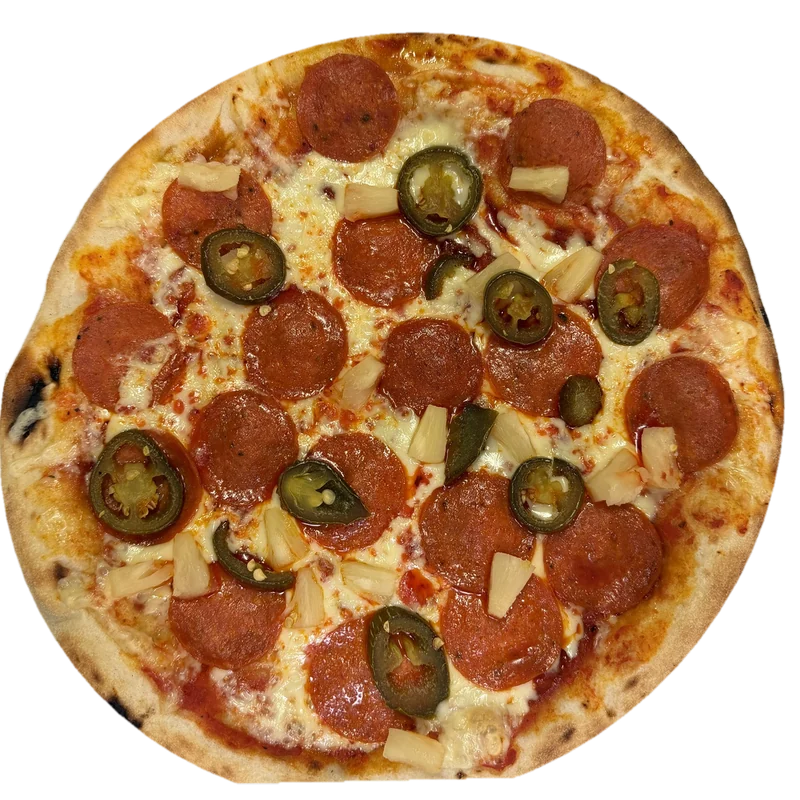
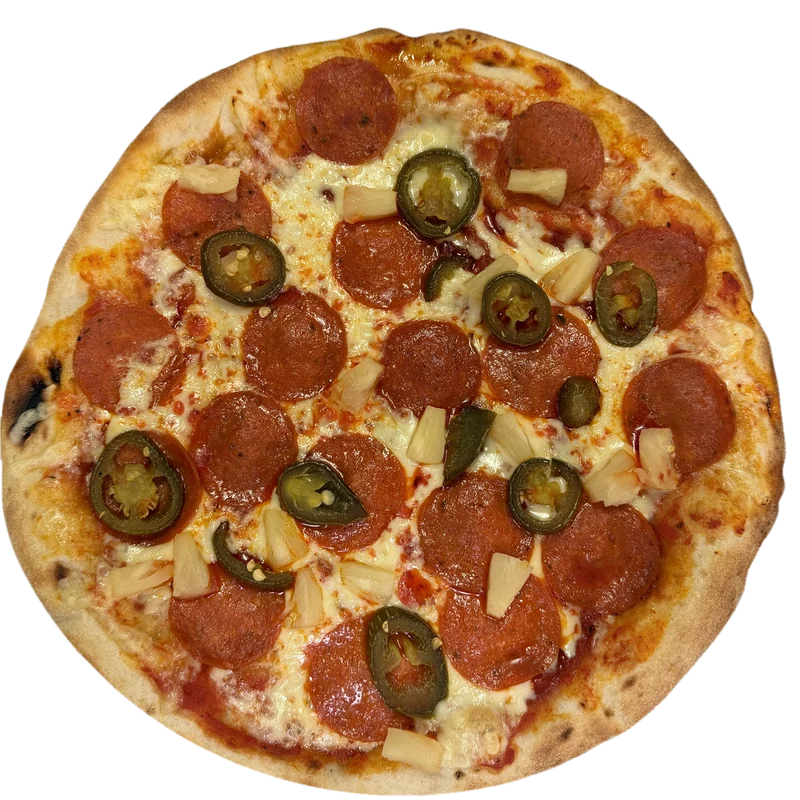
Mexicanan kuvan rajaus korjattu
Claude-Session: https://claude.ai/code/session_019QJ8uAZrjsHY5GBSvSU4sp

Changed region(s): [[0.0, 0.0312, 1.0, 1.0], [0.25, 0.5938, 0.3438, 0.6875], [0.0312, 0.7188, 0.0625, 0.7812]]

diff --git a/index.html b/index.html
@@ -1,9 +1,9 @@
 <!DOCTYPE html>
-<html lang="fi"><head><meta charset="utf-8"><meta name="build" content="1793781679"><meta name="viewport" content="width=device-width, initial-scale=1, viewport-fit=cover">
+<html lang="fi"><head><meta charset="utf-8"><meta name="build" content="1793781785"><meta name="viewport" content="width=device-width, initial-scale=1, viewport-fit=cover">
 <title>Malakai Ravintola Lempäälä | Pizzabuffet, kebab, burgerit ja siivet</title><meta name="description" content="Malakai Ravintola, Tampereentie 414 Lempäälä. Pizzabuffet 13,70 € / 14,90 €, päivän pizza 9,90 €, kebabit, burgerit, Sticky Fingers ja Hot Wings. Varaa pöytä: 045 353 7000.">
 <meta property="og:title" content="Malakai Ravintola Lempäälä | Pizzabuffet, kebab, burgerit ja siivet"><meta property="og:description" content="Malakai Ravintola, Tampereentie 414 Lempäälä. Pizzabuffet 13,70 € / 14,90 €, päivän pizza 9,90 €, kebabit, burgerit, Sticky Fingers ja Hot Wings. Varaa pöytä: 045 353 7000."><meta property="og:image" content="media/kuvat/hero-levea.jpg"><meta property="og:locale" content="fi_FI">
 <link href="https://fonts.googleapis.com/css2?family=Anton&family=Inter:wght@400;500;700&family=Playfair+Display:wght@500;600&display=swap" rel="stylesheet">
-<link rel="stylesheet" href="styles.css?v=1793781679"><link rel="stylesheet" href="home.css?v=1793781679">
+<link rel="stylesheet" href="styles.css?v=1793781785"><link rel="stylesheet" href="home.css?v=1793781785">
 <script type="application/ld+json">{"@context":"https://schema.org","@type":"Restaurant","name":"Malakai Ravintola","address":{"@type":"PostalAddress","streetAddress":"Tampereentie 414","postalCode":"33880","addressLocality":"Lempäälä","addressCountry":"FI"},"telephone":"+358453537000","email":"malakairavintola@gmail.com","url":"https://malakairavintola.fi","servesCuisine":["Pizza","Kebab","Burgerit"],"openingHours":["Mo-Th 10:30-20:00","Fr 10:30-21:00","Sa 11:00-21:00","Su 12:00-20:00"]}</script>
 </head>
 <body class="home">
@@ -219,5 +219,5 @@
 <div class="fcopy">© 2025 Malakai Ravintola · <a href="https://www.oivahymy.fi/api/raportti/227129" target="_blank" rel="noopener">Oiva-raportti (Oivallinen)</a> · <a href="tietosuoja.html">Tietosuojaseloste</a> · <a href="kayttoehdot.html">Käyttö- ja varausehdot</a></div>
 </div></footer>
 <div class="bar"><a class="btn" href="tel:+358453537000">Soita</a><a class="btn r" href="https://order.site/malakai-ravintola" target="_blank" rel="noopener">Tilaa</a><a class="btn y" href="#varaa">Varaa pöytä</a></div>
-<script src="data.js?v=1793781679"></script><script src="config.js?v=1793781679"></script><script src="site.js?v=1793781679"></script>
+<script src="data.js?v=1793781785"></script><script src="config.js?v=1793781785"></script><script src="site.js?v=1793781785"></script>
 </body></html>

diff --git a/lounas.html b/lounas.html
@@ -1,9 +1,9 @@
 <!DOCTYPE html>
-<html lang="fi"><head><meta charset="utf-8"><meta name="build" content="1793781679"><meta name="viewport" content="width=device-width, initial-scale=1, viewport-fit=cover">
+<html lang="fi"><head><meta charset="utf-8"><meta name="build" content="1793781785"><meta name="viewport" content="width=device-width, initial-scale=1, viewport-fit=cover">
 <title>Lounas Sääksjärvi | Malakai Ravintola Lempäälä</title><meta name="description" content="Pizzabuffet Lempäälässä: arkisin klo 10.30–15 13,70 €, viikonloppuisin klo 13–18 14,90 €. Salaattibuffet 9,90 € / 10,90 €. Lapsille omat hinnat.">
 <meta property="og:title" content="Pizzabuffet Lempäälä | Malakai Ravintola"><meta property="og:description" content="Pizzabuffet Lempäälässä: arkisin klo 10.30–15 13,70 €, viikonloppuisin klo 13–18 14,90 €. Salaattibuffet 9,90 € / 10,90 €. Lapsille omat hinnat."><meta property="og:image" content="media/hero.jpg"><meta property="og:locale" content="fi_FI">
 <link href="https://fonts.googleapis.com/css2?family=Anton&family=Inter:wght@400;500;700&family=Playfair+Display:wght@500;600&display=swap" rel="stylesheet">
-<link rel="stylesheet" href="styles.css?v=1793781679"><link rel="stylesheet" href="home.css?v=1793781679">
+<link rel="stylesheet" href="styles.css?v=1793781785"><link rel="stylesheet" href="home.css?v=1793781785">
 <script type="application/ld+json">{"@context":"https://schema.org","@type":"Restaurant","name":"Malakai Ravintola","address":{"@type":"PostalAddress","streetAddress":"Tampereentie 414","postalCode":"33880","addressLocality":"Lempäälä","addressCountry":"FI"},"telephone":"+358453537000","email":"malakairavintola@gmail.com","url":"https://malakairavintola.fi","servesCuisine":["Pizza","Kebab","Burgerit"],"openingHours":["Mo-Th 10:30-20:00","Fr 10:30-21:00","Sa 11:00-21:00","Su 12:00-20:00"]}</script>
 </head><body class="home">
 <header class="top" id="topbar">
@@ -73,5 +73,5 @@
 <div class="fcopy">© 2025 Malakai Ravintola · <a href="https://www.oivahymy.fi/api/raportti/227129" target="_blank" rel="noopener">Oiva-raportti (Oivallinen)</a> · <a href="tietosuoja.html">Tietosuojaseloste</a> · <a href="kayttoehdot.html">Käyttö- ja varausehdot</a></div>
 </div></footer>
 <div class="bar"><a class="btn" href="tel:+358453537000">Soita</a><a class="btn r" href="https://order.site/malakai-ravintola" target="_blank" rel="noopener">Tilaa</a><a class="btn y" href="index.html#varaa">Varaa pöytä</a></div>
-<script src="data.js?v=1793781679"></script><script src="config.js?v=1793781679"></script><script src="site.js?v=1793781679"></script>
+<script src="data.js?v=1793781785"></script><script src="config.js?v=1793781785"></script><script src="site.js?v=1793781785"></script>
 </body></html>

diff --git a/pikkujoulut.html b/pikkujoulut.html
@@ -1,9 +1,9 @@
 <!DOCTYPE html>
-<html lang="fi"><head><meta charset="utf-8"><meta name="build" content="1793781679"><meta name="viewport" content="width=device-width, initial-scale=1, viewport-fit=cover">
+<html lang="fi"><head><meta charset="utf-8"><meta name="build" content="1793781785"><meta name="viewport" content="width=device-width, initial-scale=1, viewport-fit=cover">
 <title>Pikkujoulut 2026 Lempäälä | Malakai Ravintola</title><meta name="description" content="Pikkujoulut 2026 Malakai Ravintolassa Sääksjärvellä: runsas buffet työporukalle, kavereille ja suvulle. Pyydä tarjous: 045 353 7000.">
 <meta property="og:title" content="Pikkujoulut 2026 | Malakai Ravintola"><meta property="og:description" content="Pikkujoulut 2026 Malakai Ravintolassa Sääksjärvellä: runsas buffet työporukalle, kavereille ja suvulle. Pyydä tarjous: 045 353 7000."><meta property="og:image" content="media/kuvat/buffet-lautanen.jpg"><meta property="og:locale" content="fi_FI">
 <link href="https://fonts.googleapis.com/css2?family=Anton&family=Inter:wght@400;500;700&family=Playfair+Display:wght@500;600&display=swap" rel="stylesheet">
-<link rel="stylesheet" href="styles.css?v=1793781679"><link rel="stylesheet" href="home.css?v=1793781679">
+<link rel="stylesheet" href="styles.css?v=1793781785"><link rel="stylesheet" href="home.css?v=1793781785">
 <script type="application/ld+json">{"@context":"https://schema.org","@type":"Restaurant","name":"Malakai Ravintola","address":{"@type":"PostalAddress","streetAddress":"Tampereentie 414","postalCode":"33880","addressLocality":"Lempäälä","addressCountry":"FI"},"telephone":"+358453537000","email":"malakairavintola@gmail.com","url":"https://malakairavintola.fi","servesCuisine":["Pizza","Kebab","Burgerit"],"openingHours":["Mo-Th 10:30-20:00","Fr 10:30-21:00","Sa 11:00-21:00","Su 12:00-20:00"]}</script>
 </head><body class="home">
 <header class="top" id="topbar">
@@ -66,5 +66,5 @@
 <div class="fcopy">© 2025 Malakai Ravintola · <a href="https://www.oivahymy.fi/api/raportti/227129" target="_blank" rel="noopener">Oiva-raportti (Oivallinen)</a> · <a href="tietosuoja.html">Tietosuojaseloste</a> · <a href="kayttoehdot.html">Käyttö- ja varausehdot</a></div>
 </div></footer>
 <div class="bar"><a class="btn" href="tel:+358453537000">Soita</a><a class="btn r" href="https://order.site/malakai-ravintola" target="_blank" rel="noopener">Tilaa</a><a class="btn y" href="index.html#varaa">Varaa pöytä</a></div>
-<script src="data.js?v=1793781679"></script><script src="config.js?v=1793781679"></script><script src="site.js?v=1793781679"></script>
+<script src="data.js?v=1793781785"></script><script src="config.js?v=1793781785"></script><script src="site.js?v=1793781785"></script>
 </body></html>

diff --git a/ruokalista.html b/ruokalista.html
@@ -1,9 +1,9 @@
 <!DOCTYPE html>
-<html lang="fi"><head><meta charset="utf-8"><meta name="build" content="1793781679"><meta name="viewport" content="width=device-width, initial-scale=1, viewport-fit=cover">
+<html lang="fi"><head><meta charset="utf-8"><meta name="build" content="1793781785"><meta name="viewport" content="width=device-width, initial-scale=1, viewport-fit=cover">
 <title>Ruokalista | Malakai Ravintola Lempäälä</title><meta name="description" content="Malakai Ravintolan ruokalista: pizzat, kebabit, kana, Sticky Fingers, Hot Wings, burgerit, lisukkeet, dipit ja juomat hintoineen.">
 <meta property="og:title" content="Ruokalista | Malakai Ravintola Lempäälä"><meta property="og:description" content="Malakai Ravintolan ruokalista: pizzat, kebabit, kana, Sticky Fingers, Hot Wings, burgerit, lisukkeet, dipit ja juomat hintoineen."><meta property="og:image" content="media/hero.jpg"><meta property="og:locale" content="fi_FI">
 <link href="https://fonts.googleapis.com/css2?family=Anton&family=Inter:wght@400;500;700&family=Playfair+Display:wght@500;600&display=swap" rel="stylesheet">
-<link rel="stylesheet" href="styles.css?v=1793781679"><link rel="stylesheet" href="home.css?v=1793781679">
+<link rel="stylesheet" href="styles.css?v=1793781785"><link rel="stylesheet" href="home.css?v=1793781785">
 <script type="application/ld+json">{"@context":"https://schema.org","@type":"Restaurant","name":"Malakai Ravintola","address":{"@type":"PostalAddress","streetAddress":"Tampereentie 414","postalCode":"33880","addressLocality":"Lempäälä","addressCountry":"FI"},"telephone":"+358453537000","email":"malakairavintola@gmail.com","url":"https://malakairavintola.fi","servesCuisine":["Pizza","Kebab","Burgerit"],"openingHours":["Mo-Th 10:30-20:00","Fr 10:30-21:00","Sa 11:00-21:00","Su 12:00-20:00"]}</script>
 </head><body class="home menu-page">
 <header class="top" id="topbar">
@@ -23,5 +23,5 @@
 <div class="fcopy">© 2025 Malakai Ravintola · <a href="https://www.oivahymy.fi/api/raportti/227129" target="_blank" rel="noopener">Oiva-raportti (Oivallinen)</a> · <a href="tietosuoja.html">Tietosuojaseloste</a> · <a href="kayttoehdot.html">Käyttö- ja varausehdot</a></div>
 </div></footer>
 <div class="bar"><a class="btn" href="tel:+358453537000">Soita</a><a class="btn r" href="https://order.site/malakai-ravintola" target="_blank" rel="noopener">Tilaa</a><a class="btn y" href="index.html#varaa">Varaa pöytä</a></div>
-<script src="data.js?v=1793781679"></script><script src="config.js?v=1793781679"></script><script src="site.js?v=1793781679"></script>
+<script src="data.js?v=1793781785"></script><script src="config.js?v=1793781785"></script><script src="site.js?v=1793781785"></script>
 </body></html>

diff --git a/pizza-lempaala.html b/pizza-lempaala.html
@@ -1,9 +1,9 @@
 <!DOCTYPE html>
-<html lang="fi"><head><meta charset="utf-8"><meta name="build" content="1793781679"><meta name="viewport" content="width=device-width, initial-scale=1, viewport-fit=cover">
+<html lang="fi"><head><meta charset="utf-8"><meta name="build" content="1793781785"><meta name="viewport" content="width=device-width, initial-scale=1, viewport-fit=cover">
 <title>Pizza Lempäälä | Malakai Ravintola</title><meta name="description" content="Pizza Lempäälässä: Malakai Ravintolan 22 pizzaa, oma valinta ja päivän pizza 9,90 €. Pizzabuffet joka päivä.">
 <meta property="og:title" content="Pizza Lempäälä | Malakai Ravintola"><meta property="og:description" content="Pizza Lempäälässä: Malakai Ravintolan 22 pizzaa, oma valinta ja päivän pizza 9,90 €. Pizzabuffet joka päivä."><meta property="og:image" content="media/hero.jpg"><meta property="og:locale" content="fi_FI">
 <link href="https://fonts.googleapis.com/css2?family=Anton&family=Inter:wght@400;500;700&family=Playfair+Display:wght@500;600&display=swap" rel="stylesheet">
-<link rel="stylesheet" href="styles.css?v=1793781679"><link rel="stylesheet" href="home.css?v=1793781679">
+<link rel="stylesheet" href="styles.css?v=1793781785"><link rel="stylesheet" href="home.css?v=1793781785">
 <script type="application/ld+json">{"@context":"https://schema.org","@type":"Restaurant","name":"Malakai Ravintola","address":{"@type":"PostalAddress","streetAddress":"Tampereentie 414","postalCode":"33880","addressLocality":"Lempäälä","addressCountry":"FI"},"telephone":"+358453537000","email":"malakairavintola@gmail.com","url":"https://malakairavintola.fi","servesCuisine":["Pizza","Kebab","Burgerit"],"openingHours":["Mo-Th 10:30-20:00","Fr 10:30-21:00","Sa 11:00-21:00","Su 12:00-20:00"]}</script>
 </head><body class="home menu-page">
 <header class="top" id="topbar">
@@ -23,5 +23,5 @@
 <div class="fcopy">© 2025 Malakai Ravintola · <a href="https://www.oivahymy.fi/api/raportti/227129" target="_blank" rel="noopener">Oiva-raportti (Oivallinen)</a> · <a href="tietosuoja.html">Tietosuojaseloste</a> · <a href="kayttoehdot.html">Käyttö- ja varausehdot</a></div>
 </div></footer>
 <div class="bar"><a class="btn" href="tel:+358453537000">Soita</a><a class="btn r" href="https://order.site/malakai-ravintola" target="_blank" rel="noopener">Tilaa</a><a class="btn y" href="index.html#varaa">Varaa pöytä</a></div>
-<script src="data.js?v=1793781679"></script><script src="config.js?v=1793781679"></script><script src="site.js?v=1793781679"></script>
+<script src="data.js?v=1793781785"></script><script src="config.js?v=1793781785"></script><script src="site.js?v=1793781785"></script>
 </body></html>

diff --git a/kebab-lempaala.html b/kebab-lempaala.html
@@ -1,9 +1,9 @@
 <!DOCTYPE html>
-<html lang="fi"><head><meta charset="utf-8"><meta name="build" content="1793781679"><meta name="viewport" content="width=device-width, initial-scale=1, viewport-fit=cover">
+<html lang="fi"><head><meta charset="utf-8"><meta name="build" content="1793781785"><meta name="viewport" content="width=device-width, initial-scale=1, viewport-fit=cover">
 <title>Kebab Lempäälä | Malakai Ravintola</title><meta name="description" content="Kebab Lempäälässä: Malakai Ravintolan kebab- ja kanaannokset ranskalaisilla, riisillä, rullana ja pitassa.">
 <meta property="og:title" content="Kebab Lempäälä | Malakai Ravintola"><meta property="og:description" content="Kebab Lempäälässä: Malakai Ravintolan kebab- ja kanaannokset ranskalaisilla, riisillä, rullana ja pitassa."><meta property="og:image" content="media/hero.jpg"><meta property="og:locale" content="fi_FI">
 <link href="https://fonts.googleapis.com/css2?family=Anton&family=Inter:wght@400;500;700&family=Playfair+Display:wght@500;600&display=swap" rel="stylesheet">
-<link rel="stylesheet" href="styles.css?v=1793781679"><link rel="stylesheet" href="home.css?v=1793781679">
+<link rel="stylesheet" href="styles.css?v=1793781785"><link rel="stylesheet" href="home.css?v=1793781785">
 <script type="application/ld+json">{"@context":"https://schema.org","@type":"Restaurant","name":"Malakai Ravintola","address":{"@type":"PostalAddress","streetAddress":"Tampereentie 414","postalCode":"33880","addressLocality":"Lempäälä","addressCountry":"FI"},"telephone":"+358453537000","email":"malakairavintola@gmail.com","url":"https://malakairavintola.fi","servesCuisine":["Pizza","Kebab","Burgerit"],"openingHours":["Mo-Th 10:30-20:00","Fr 10:30-21:00","Sa 11:00-21:00","Su 12:00-20:00"]}</script>
 </head><body class="home menu-page">
 <header class="top" id="topbar">
@@ -23,5 +23,5 @@
 <div class="fcopy">© 2025 Malakai Ravintola · <a href="https://www.oivahymy.fi/api/raportti/227129" target="_blank" rel="noopener">Oiva-raportti (Oivallinen)</a> · <a href="tietosuoja.html">Tietosuojaseloste</a> · <a href="kayttoehdot.html">Käyttö- ja varausehdot</a></div>
 </div></footer>
 <div class="bar"><a class="btn" href="tel:+358453537000">Soita</a><a class="btn r" href="https://order.site/malakai-ravintola" target="_blank" rel="noopener">Tilaa</a><a class="btn y" href="index.html#varaa">Varaa pöytä</a></div>
-<script src="data.js?v=1793781679"></script><script src="config.js?v=1793781679"></script><script src="site.js?v=1793781679"></script>
+<script src="data.js?v=1793781785"></script><script src="config.js?v=1793781785"></script><script src="site.js?v=1793781785"></script>
 </body></html>

diff --git a/kayttoehdot.html b/kayttoehdot.html
@@ -1,9 +1,9 @@
 <!DOCTYPE html>
-<html lang="fi"><head><meta charset="utf-8"><meta name="build" content="1793781679"><meta name="viewport" content="width=device-width, initial-scale=1, viewport-fit=cover">
+<html lang="fi"><head><meta charset="utf-8"><meta name="build" content="1793781785"><meta name="viewport" content="width=device-width, initial-scale=1, viewport-fit=cover">
 <title>Käyttö- ja varausehdot | Malakai Ravintola</title><meta name="description" content="Malakai Ravintolan käyttö- ja varausehdot: pöytävaraukset, lahjakortit ja sivuston käyttö."><meta name="robots" content="noindex">
 <meta property="og:title" content="Käyttö- ja varausehdot | Malakai Ravintola"><meta property="og:description" content="Pöytävaraukset ja lahjakortit: Malakai Ravintolan ehdot."><meta property="og:image" content="media/kuvat/buffet-lautanen.jpg"><meta property="og:locale" content="fi_FI">
 <link href="https://fonts.googleapis.com/css2?family=Anton&family=Inter:wght@400;500;700&family=Playfair+Display:wght@500;600&display=swap" rel="stylesheet">
-<link rel="stylesheet" href="styles.css?v=1793781679"><link rel="stylesheet" href="home.css?v=1793781679">
+<link rel="stylesheet" href="styles.css?v=1793781785"><link rel="stylesheet" href="home.css?v=1793781785">
 <script type="application/ld+json">{"@context":"https://schema.org","@type":"Restaurant","name":"Malakai Ravintola","address":{"@type":"PostalAddress","streetAddress":"Tampereentie 414","postalCode":"33880","addressLocality":"Lempäälä","addressCountry":"FI"},"telephone":"+358453537000","email":"malakairavintola@gmail.com","url":"https://malakairavintola.fi","servesCuisine":["Pizza","Kebab","Burgerit"],"openingHours":["Mo-Th 10:30-20:00","Fr 10:30-21:00","Sa 11:00-21:00","Su 12:00-20:00"]}</script>
 </head><body class="home">
 <header class="top" id="topbar">
@@ -69,5 +69,5 @@
 <div class="fcopy">© 2025 Malakai Ravintola · <a href="https://www.oivahymy.fi/api/raportti/227129" target="_blank" rel="noopener">Oiva-raportti (Oivallinen)</a> · <a href="tietosuoja.html">Tietosuojaseloste</a> · <a href="kayttoehdot.html">Käyttö- ja varausehdot</a></div>
 </div></footer>
 <div class="bar"><a class="btn" href="tel:+358453537000">Soita</a><a class="btn r" href="https://order.site/malakai-ravintola" target="_blank" rel="noopener">Tilaa</a><a class="btn y" href="index.html#varaa">Varaa pöytä</a></div>
-<script src="data.js?v=1793781679"></script><script src="config.js?v=1793781679"></script><script src="site.js?v=1793781679"></script>
+<script src="data.js?v=1793781785"></script><script src="config.js?v=1793781785"></script><script src="site.js?v=1793781785"></script>
 </body></html>

diff --git a/tietosuoja.html b/tietosuoja.html
@@ -1,9 +1,9 @@
 <!DOCTYPE html>
-<html lang="fi"><head><meta charset="utf-8"><meta name="build" content="1793781679"><meta name="viewport" content="width=device-width, initial-scale=1, viewport-fit=cover">
+<html lang="fi"><head><meta charset="utf-8"><meta name="build" content="1793781785"><meta name="viewport" content="width=device-width, initial-scale=1, viewport-fit=cover">
 <title>Tietosuojaseloste | Malakai Ravintola</title><meta name="description" content="Malakai Ravintolan tietosuojaseloste: pöytävarausten ja uutiskirjeen henkilötietojen käsittely."><meta name="robots" content="noindex">
 <meta property="og:title" content="Tietosuojaseloste | Malakai Ravintola"><meta property="og:image" content="media/kuvat/buffet-lautanen.jpg"><meta property="og:locale" content="fi_FI">
 <link href="https://fonts.googleapis.com/css2?family=Anton&family=Inter:wght@400;500;700&family=Playfair+Display:wght@500;600&display=swap" rel="stylesheet">
-<link rel="stylesheet" href="styles.css?v=1793781679"><link rel="stylesheet" href="home.css?v=1793781679">
+<link rel="stylesheet" href="styles.css?v=1793781785"><link rel="stylesheet" href="home.css?v=1793781785">
 <script type="application/ld+json">{"@context":"https://schema.org","@type":"Restaurant","name":"Malakai Ravintola","address":{"@type":"PostalAddress","streetAddress":"Tampereentie 414","postalCode":"33880","addressLocality":"Lempäälä","addressCountry":"FI"},"telephone":"+358453537000","email":"malakairavintola@gmail.com","url":"https://malakairavintola.fi","servesCuisine":["Pizza","Kebab","Burgerit"],"openingHours":["Mo-Th 10:30-20:00","Fr 10:30-21:00","Sa 11:00-21:00","Su 12:00-20:00"]}</script>
 </head><body class="home">
 <header class="top" id="topbar">
@@ -47,5 +47,5 @@
 <div class="fcopy">© 2025 Malakai Ravintola · <a href="https://www.oivahymy.fi/api/raportti/227129" target="_blank" rel="noopener">Oiva-raportti (Oivallinen)</a> · <a href="tietosuoja.html">Tietosuojaseloste</a> · <a href="kayttoehdot.html">Käyttö- ja varausehdot</a></div>
 </div></footer>
 <div class="bar"><a class="btn" href="tel:+358453537000">Soita</a><a class="btn r" href="https://order.site/malakai-ravintola" target="_blank" rel="noopener">Tilaa</a><a class="btn y" href="index.html#varaa">Varaa pöytä</a></div>
-<script src="data.js?v=1793781679"></script><script src="config.js?v=1793781679"></script><script src="site.js?v=1793781679"></script>
+<script src="data.js?v=1793781785"></script><script src="config.js?v=1793781785"></script><script src="site.js?v=1793781785"></script>
 </body></html>

diff --git a/lahjakortit.html b/lahjakortit.html
@@ -1,9 +1,9 @@
 <!DOCTYPE html>
-<html lang="fi"><head><meta charset="utf-8"><meta name="build" content="1793781679"><meta name="viewport" content="width=device-width, initial-scale=1, viewport-fit=cover">
+<html lang="fi"><head><meta charset="utf-8"><meta name="build" content="1793781785"><meta name="viewport" content="width=device-width, initial-scale=1, viewport-fit=cover">
 <title>Lahjakortit | Malakai Ravintola</title><meta name="description" content="Malakai Ravintolan lahjakortti: valitse summa itse (alk. 20 €), voimassa 6 kk. Osta ravintolan kassalta, Tampereentie 414, Lempäälä.">
 <meta property="og:title" content="Lahjakortit | Malakai Ravintola"><meta property="og:image" content="media/kuvat/buffet-lautanen.jpg"><meta property="og:locale" content="fi_FI">
 <link href="https://fonts.googleapis.com/css2?family=Anton&family=Inter:wght@400;500;700&family=Playfair+Display:wght@500;600&display=swap" rel="stylesheet">
-<link rel="stylesheet" href="styles.css?v=1793781679"><link rel="stylesheet" href="home.css?v=1793781679">
+<link rel="stylesheet" href="styles.css?v=1793781785"><link rel="stylesheet" href="home.css?v=1793781785">
 <script type="application/ld+json">{"@context":"https://schema.org","@type":"Restaurant","name":"Malakai Ravintola","address":{"@type":"PostalAddress","streetAddress":"Tampereentie 414","postalCode":"33880","addressLocality":"Lempäälä","addressCountry":"FI"},"telephone":"+358453537000","email":"malakairavintola@gmail.com","url":"https://malakairavintola.fi","servesCuisine":["Pizza","Kebab","Burgerit"],"openingHours":["Mo-Th 10:30-20:00","Fr 10:30-21:00","Sa 11:00-21:00","Su 12:00-20:00"]}</script>
 </head><body class="home">
 <header class="top" id="topbar">
@@ -44,5 +44,5 @@
 <div class="fcopy">© 2025 Malakai Ravintola · <a href="https://www.oivahymy.fi/api/raportti/227129" target="_blank" rel="noopener">Oiva-raportti (Oivallinen)</a> · <a href="tietosuoja.html">Tietosuojaseloste</a> · <a href="kayttoehdot.html">Käyttö- ja varausehdot</a></div>
 </div></footer>
 <div class="bar"><a class="btn" href="tel:+358453537000">Soita</a><a class="btn r" href="https://order.site/malakai-ravintola" target="_blank" rel="noopener">Tilaa</a><a class="btn y" href="index.html#varaa">Varaa pöytä</a></div>
-<script src="data.js?v=1793781679"></script><script src="config.js?v=1793781679"></script><script src="site.js?v=1793781679"></script>
+<script src="data.js?v=1793781785"></script><script src="config.js?v=1793781785"></script><script src="site.js?v=1793781785"></script>
 </body></html>

diff --git a/admin.html b/admin.html
@@ -102,8 +102,8 @@ a{color:var(--y)}
 <main class="w" id="main"></main>
 <div class="save" id="saveBar"><div class="w"><span id="saveTxt">Ei tallentamattomia muutoksia</span><button class="o" id="undo" disabled>Peru muutokset</button><button id="saveBtn" disabled>Tallenna ja julkaise</button></div></div>
 <div id="toast" hidden></div>
-<script src="data.js?v=1793781679"></script>
-<script src="config.js?v=1793781679"></script>
+<script src="data.js?v=1793781785"></script>
+<script src="config.js?v=1793781785"></script>
 <script>
 (function(){
 const REPO="malakai-ravintola/malakai-ravintola.github.io",BR="main",FILE="data.js";

diff --git a/data.js b/data.js
@@ -12,7 +12,7 @@ window.SITE=/*BEGIN*/{
   },
   "ke": {
    "name": "Mexicana",
-   "img": "media/pizza-ke.webp?v=2"
+   "img": "media/pizza-ke.webp?v=3"
   },
   "to": {
    "name": "Americano",
